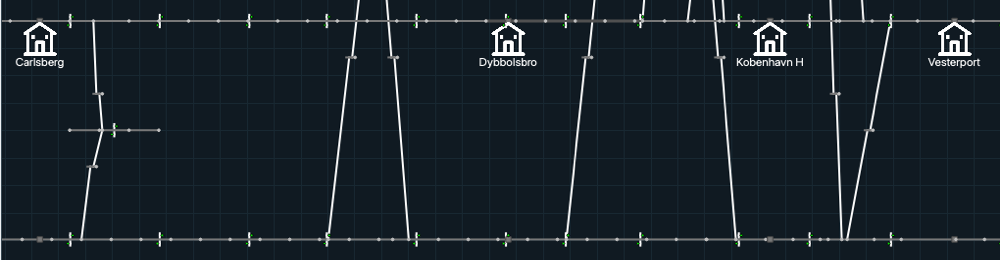
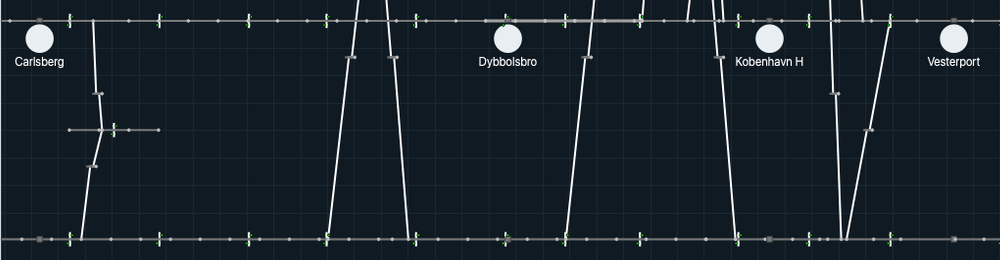
Refresh the current-build captures of the renderer comparison (#989)
* Refresh the current-build captures of the renderer comparison

The frames showed the house pictogram and the old mainline grey, which the canvas no longer draws.

* Describe the unlabelled Netherlands station and the station mark frame

* Name Brn as the Netherlands landmark

diff --git a/docs/ui/historical-track-comparison.md b/docs/ui/historical-track-comparison.md
@@ -157,19 +157,21 @@ matched-extent application captures and manual interaction checks.
 
 ## Evidence
 
-Each pair below shows the same stretch of the network in the reference build
-and in the current build, at the same size in pixels. The windows were 1280x800
-at device pixel ratio 1. Each image is a crop of the network canvas, resized so
-that the two frames of a pair show the same extent. The zoom given for a pair is
-the zoom of the window before the crop, so a frame can show the network larger
-or smaller than the window did, and the sizes in a Fit frame and in a detail
-frame are not in the ratio of their zooms. The reference builds are `472d0b5`
-and, for the Netherlands, `f138134`. The current build is main `037a2e43`. Both
-builds zoom by 1.15 per click. The zoom label of the current build is the ratio
-to its own Fit scale. The reference build has no zoom label, so its zoom is the
-number of zoom-in clicks from Fit. The reference build fits the scene rectangle
-and the current build fits the painted track with 24 px of padding, so the same
-number of clicks from Fit does not show the same extent in both builds.
+Each pair below shows the same stretch of the network in the reference build and
+in the current build, at the same size in pixels. All frames are at device pixel
+ratio 1: the reference frames from 1280x800 windows, the current frames from the
+offscreen platform with the canvas at 1254x566, its size in such a window. Each
+image is a crop of the network canvas, resized so that the two frames of a pair
+show the same extent. The zoom given for a pair is the zoom of the window before
+the crop, so a frame can show the network larger or smaller than the window did,
+and the sizes in a Fit frame and in a detail frame are not in the ratio of their
+zooms. The reference builds are `472d0b5` and, for the Netherlands, `f138134`.
+The current build is main `946ee7eb`. Both builds zoom by 1.15 per click. The
+zoom label of the current build is the ratio to its own Fit scale. The reference
+build has no zoom label, so its zoom is the number of zoom-in clicks from Fit.
+The reference build fits the scene rectangle and the current build fits the
+painted track with 24 px of padding, so the same number of clicks from Fit does
+not show the same extent in both builds.
 
 Under each pair the first paragraph gives the build, the scene, the zoom and the
 landmarks, and the second says what differs inside the pair: the symbols first,
@@ -183,16 +185,16 @@ them.
 
 ![Paimpol at Fit in the current build](images/paimpol-fit-current.png)
 
-Reference build `472d0b5` above, current build main `037a2e43` below. Scene
+Reference build `472d0b5` above, current build main `946ee7eb` below. Scene
 Paimpol at Fit in both builds, so the whole line shows, with Guingamp at the left
 end and Paimpol at the right end. The positions of the ten stations agree within
 about 0.5 percent of the frame width.
 
-In the symbols, the current frame draws a pictogram and a readable name for each
-station and hides the name of Pontrieaux_Halte where it overlaps the name of
-Pontrieaux, while the reference frame has no pictogram and names too small to
-read. In the geometry, the siding at Pontrieaux shows in the current frame only,
-as a short second row under the line.
+In the symbols, the current frame draws a light disc with a dark halo and a
+readable name for each station and hides the name of Pontrieaux_Halte where it
+overlaps the name of Pontrieaux, while the reference frame has no station mark
+and names too small to read. In the geometry, the siding at Pontrieaux shows in
+the current frame only, as a short second row under the line.
 
 ### Paimpol at detail
 
@@ -200,12 +202,12 @@ as a short second row under the line.
 
 ![Paimpol at detail in the current build](images/paimpol-detail-current.png)
 
-Reference build `472d0b5` above, current build main `037a2e43` below. Scene
+Reference build `472d0b5` above, current build main `946ee7eb` below. Scene
 Paimpol, 16 zoom-in clicks from Fit (zoom label 9.4x in the current build), then
 10 arrow-key presses in both builds. Pontrieaux_Halte and Pontrieaux stand at the
 same x in both frames, and the signals, node dots and station squares line up.
 
-In the symbols, the current frame adds a pictogram above each name, draws the
+In the symbols, the current frame adds a light disc above each name, draws the
 names larger because the minimum name size applies at this zoom, and writes
 Pontrieaux_Halte without the space after the underscore that the reference frame
 draws. In the geometry, the siding below the line at Pontrieaux, with its
@@ -217,12 +219,12 @@ diagonal connection and its signals, is in the current frame only.
 
 ![Copenhagen junction in the current build](images/copenhagen-junction-current.png)
 
-Reference build `472d0b5` above, current build main `037a2e43` below. Scene
+Reference build `472d0b5` above, current build main `946ee7eb` below. Scene
 Copenhagen, 22 zoom-in clicks from Fit (zoom label 21.6x in the current build),
 then 10 arrow-key presses in both builds. Carlsberg, Dybbolsbro, Kobenhavn H and
 Vesterport stand at the same x in both frames, within 3 px.
 
-In the symbols, the current frame adds a pictogram above each name and draws the
+In the symbols, the current frame adds a light disc above each name and draws the
 names larger because the minimum name size applies at this zoom. In the
 geometry, the reference frame draws one line, with signals at more x positions
 than either current row, where the current frame draws two parallel rows joined
@@ -235,17 +237,18 @@ reference line has a signal.
 
 ![Netherlands stretch in the current build](images/netherlands-stretch-current.png)
 
-Reference build `f138134` above, current build main `037a2e43` below. Scene
+Reference build `f138134` above, current build main `946ee7eb` below. Scene
 Netherlands, 6 zoom-in clicks from Fit (zoom label 2.3x in the current build).
 The landmarks are the track corner at Ndb, the corner between Hvsm and Hvsp and
-the corner at Blm, which agree within about 20 px in the 500 px frames. This is
+the corner at Brn, which agree within about 20 px in the 500 px frames. This is
 the loosest match of the pairs, because the current case has doubled tracks.
 
-In the symbols, the current frame draws a pictogram and a name at each station,
-and the reference frame has no readable station label. In the geometry, the
-current frame draws doubled tracks, stations beside them and crossovers where the
-reference frame draws a single line, with one short extra segment at the corner
-between Hvsm and Hvsp.
+In the symbols, the current frame draws a light disc at each station and a name
+at all but one, at the bend between Hvsm and Hvsp, and the mainline track in grey
+(160,160,160), and the reference frame has no readable station label. In the
+geometry, the current frame draws doubled tracks, stations beside them and
+crossovers where the reference frame draws a single line, with one short extra
+segment at the corner between Hvsm and Hvsp.
 
 ### Assignment corridor
 
@@ -256,18 +259,18 @@ shown.
 
 ![Assignment corridor at detail in the current build](images/assignment-detail-current.png)
 
-Current build main `037a2e43`, scene Assignment_Gvc_Gdg_Ut. The first frame is at
-Fit with the stations Gvc, Gdg and Ut, and the two parallel tracks of the corridor
-read as one band. The second frame is 10 zoom-in clicks from Fit (zoom label 4x),
-around Gdg, and shows the two tracks apart, with a signal on each track at
-regular intervals.
+Current build main `946ee7eb`, scene Assignment_Gvc_Gdg_Ut. The first frame is at
+Fit with the stations Gvc, Gdg and Ut, and the two parallel mainline tracks of the
+corridor, grey (160,160,160), read as one band. The second frame is 10 zoom-in
+clicks from Fit (zoom label 4x), around Gdg, and shows the two tracks apart, with
+a signal on each track at regular intervals.
 
 ### What the captures show and do not show
 
-- The reference frames show the station names and no pictogram, so the
-  pictogram of the current frames has no counterpart in them. At Fit the names in
-  the reference frames are too small to read, where the current build keeps the
-  pictogram at least 24 px and the name at least 12 px high.
+- The reference frames show the station names and no station mark, so the discs
+  of the current frames have no counterpart in them. At Fit the names in the
+  reference frames are too small to read, where the current build keeps the
+  frame of the station mark at least 24 px and the name at least 12 px high.
 - The names are larger in the current detail frames than in the reference frames
   at the same extent. The current build draws a name at least 12 px high.
 - The current frames have the `#101a22` background and its grid, the reference
@@ -276,8 +279,9 @@ regular intervals.
   head, and the opposing head sits on the other side of the line at the same
   offsets. Node dots are light gray (192,192,192) and sit at the ends of the track
   segments. Both builds draw the track with a cosmetic pen of 2 px.
-- No capture shows a running state, so the red and yellow aspects, the unpainted
-  track states and the white repaint of the reference are not shown.
+- No capture shows a running state, so the trains, which keep at least 8 px on
+  screen, the red and yellow aspects, the unpainted track states and the white
+  repaint of the reference are not shown.
 - Interaction (hit testing, signal inspection, layer toggles, Follow, zoom and
   pan) and the run, pause, stop and replay states are not shown by these
   captures.
